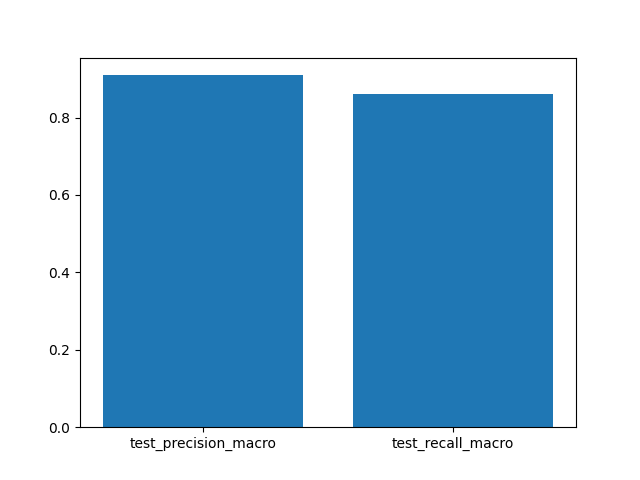
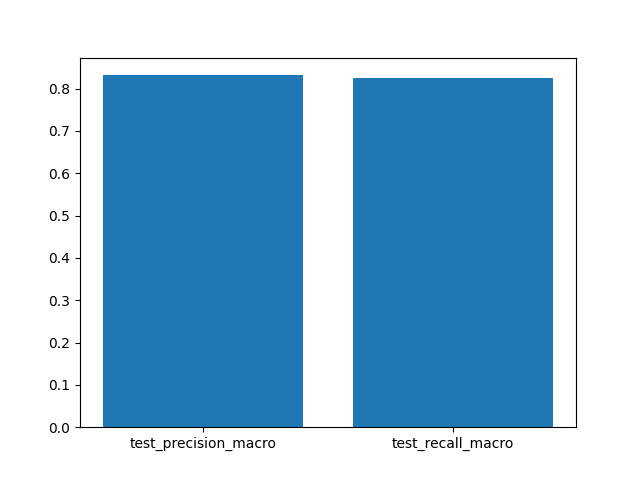
third commit

diff --git a/Training/Training.py b/Training/Training.py
@@ -76,28 +76,35 @@ atr_train_b = dados_finais_b_train.drop(columns=['isFraud'])
 # Número de árvores na floresta
 n_estimators = [int(x) for x in np.linspace(start = 100, stop = 300, num = 3)]
 # Número de atributos considerados em cada segmento
-max_features = ['auto', 'srqt']
+max_features = ['log2', 'sqrt']
 # Número máximo de folhas em cada árvore
 max_depth = [int(x) for x in np.linspace(10,110, num = 3)]
 max_depth.append(None)
+# Número mínimo de instâncias requeridas para segmentar cada nó
+min_samples_split = [2,5,10]
+# Número mínimo de amostras necessárias em cada nó
+min_samples_leaf = [1,2,4]
+# Método de seleção de amostras para treinar cada árvore
+bootstrap = [True, False]
 
-# Alternative
-random_grid = {'n_estimators' : n_estimators,
-               'max_features' : max_features,
-               'max_depth' : max_depth}
+random_grid = { 'n_estimators' : n_estimators,
+                'max_features' : max_features,
+                'max_depth' : max_depth,
+                'min_samples_split' : min_samples_split,
+                'min_samples_leaf' : min_samples_leaf,
+                'bootstrap' : bootstrap,}
 
 # INICIAR A BUSCA PELO MELHORES HIPERPARAMETROS
 
-# rf = instanciação da randomForest
 rf_grid = RandomForestClassifier()
-rf_grid = GridSearchCV(rf_grid,random_grid,refit=True,verbose=2)
+rf_grid = GridSearchCV(rf_grid,random_grid,refit=True,verbose=0)
 rf_grid.fit(atr_train_b, class_train_b)
 
 print("MELHORES HIPERPARÂMETROS")
 print(rf_grid.best_params_)
 
 # TREINAR O MODELO
-rf = RandomForestClassifier(rf_grid.best_params_)
+rf = RandomForestClassifier(n_estimators=rf_grid.best_params_['n_estimators'], max_features=rf_grid.best_params_['max_features'], max_depth=rf_grid.best_params_['max_depth'], min_samples_split=rf_grid.best_params_['min_samples_split'], min_samples_leaf=rf_grid.best_params_['min_samples_leaf'], bootstrap=rf_grid.best_params_['bootstrap'])
 FinancialFraudRF = rf.fit(dados_atributos_b, dados_classes_b.values.ravel())
 dump(FinancialFraudRF, open('Training/Models/synthetic_financial_fraud_detection_RF_2024.pkl', 'wb'))
 
@@ -114,7 +121,3 @@ plt.bar(x, y)
 plt.savefig('Training/CrossValidation.png')
 
 plt.show()
-
-# Resultados:
-# test_precision_macro = 0.9092801273458389
-# test_recall_macro = 0.8602703588552417

diff --git a/main.py b/main.py
@@ -29,6 +29,7 @@ def instance_inputs():
 
 while True:
     try:
+        print("\n### FINANCIAL FRAUD DETECTION ###")
         print("\n1.Insert a new Instance\n2.Exit\n")
         match int(input("Select an option above: ")):
             case 1:
